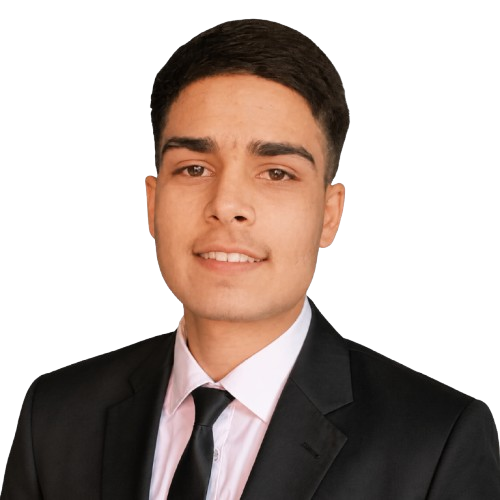
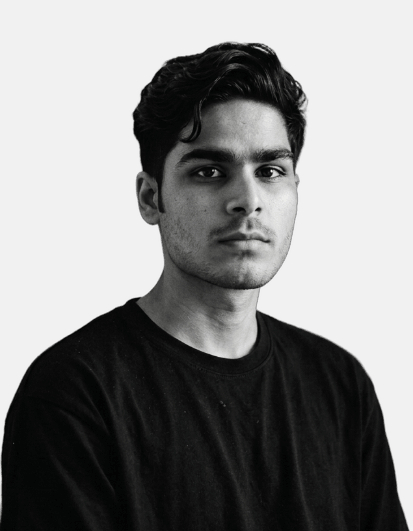
Update portfolio

diff --git a/src/components/Chatbot.jsx b/src/components/Chatbot.jsx
@@ -25,7 +25,7 @@ const KNOWLEDGE_BASE = {
     "Adarsh's core competencies (from the 'Director's Cut' section):\n1. AI & Machine Learning — building intelligent agents and RAG-based systems, applying NLP and LLM-based approaches to real-world problems.\n2. Full-Stack Development — scalable web apps with React interfaces and Node.js powered RESTful APIs.\n3. Cloud & DevOps — deploying on AWS, GCP & containerized environments, with hands-on experience across IBM Cloud, Vercel, and Netlify.\n4. Problem Solving — turning complex ideas into clean, scalable, production-ready products.",
 
   experience:
-    "Adarsh has completed 8 internships:\n• AI Intern — Mirai School of Technology\n• Cloud Computing Intern (Azure) — Microsoft Elevate (AICTE)\n• Cybersecurity with GenAI Intern — Edunet Foundation (VOIS for Tech)\n• AI & Machine Learning Intern — Edunet Foundation (IBM SkillsBuild)\n• AI & Cloud Intern — Edunet Foundation (IBM SkillsBuild)\n• AI & Data Analytics Intern — Edunet Foundation (Shell)\n• Front End Web Development Intern — Edunet Foundation (AICTE)\n• Web Developer Intern — InternPe",
+    "Adarsh has completed 9 internships:\n• AI Intern (Summer Internship - 2026) — Mirai School of Technology\n• AI Intern (Winter Internship - 2026) — Mirai School of Technology\n• Cloud Computing Intern (Azure) — Microsoft Elevate (AICTE)\n• Cybersecurity with GenAI Intern — Edunet Foundation (VOIS for Tech)\n• AI & Machine Learning Intern — Edunet Foundation (IBM SkillsBuild)\n• AI & Cloud Intern — Edunet Foundation (IBM SkillsBuild)\n• AI & Data Analytics Intern — Edunet Foundation (Shell)\n• Front End Web Development Intern — Edunet Foundation (AICTE)\n• Web Developer Intern — InternPe",
 
   certifications:
     "Adarsh holds several industry certifications: AI & ML (Microsoft), Power BI (Microsoft), Azure (Microsoft), DSA (Infosys), AI (Infosys), GenAI & GPT (Infosys), Deep Learning (Infosys), Web Dev (IBM), and AI Fundamentals (IBM).",

diff --git a/src/components/About.jsx b/src/components/About.jsx
@@ -143,7 +143,11 @@ const About = () => {
               <ul className="space-y-2.5 text-sm text-white/80 font-light max-h-[280px] overflow-y-auto pr-1">
                 <li className="flex items-start gap-2.5">
                   <span className="text-red-500 font-bold">&#8250;</span>
-                  <span><strong className="text-white">AI Intern</strong> — Mirai School of Technology</span>
+                  <span><strong className="text-white">AI Intern (Summer Internship - 2026)</strong> — Mirai School of Technology</span>
+                </li>
+                <li className="flex items-start gap-2.5">
+                  <span className="text-red-500 font-bold">&#8250;</span>
+                  <span><strong className="text-white">AI Intern (Winter Internship - 2026)</strong> — Mirai School of Technology</span>
                 </li>
                 <li className="flex items-start gap-2.5">
                   <span className="text-red-500 font-bold">&#8250;</span>
@@ -177,7 +181,7 @@ const About = () => {
             </div>
             
             <div className="pt-6 font-mono text-xs text-white/40 relative z-10">
-              // 8 INTERNSHIPS COMPLETED
+              // 9 INTERNSHIPS COMPLETED
             </div>
           </div>
 
